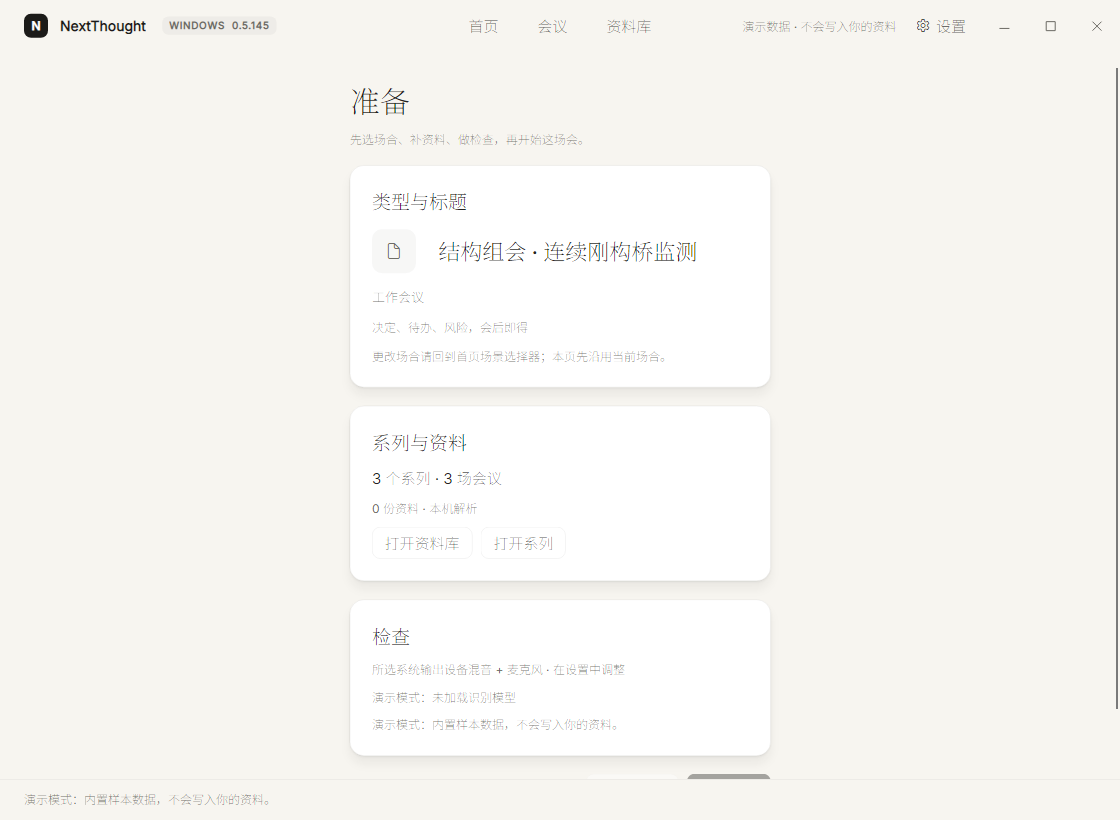
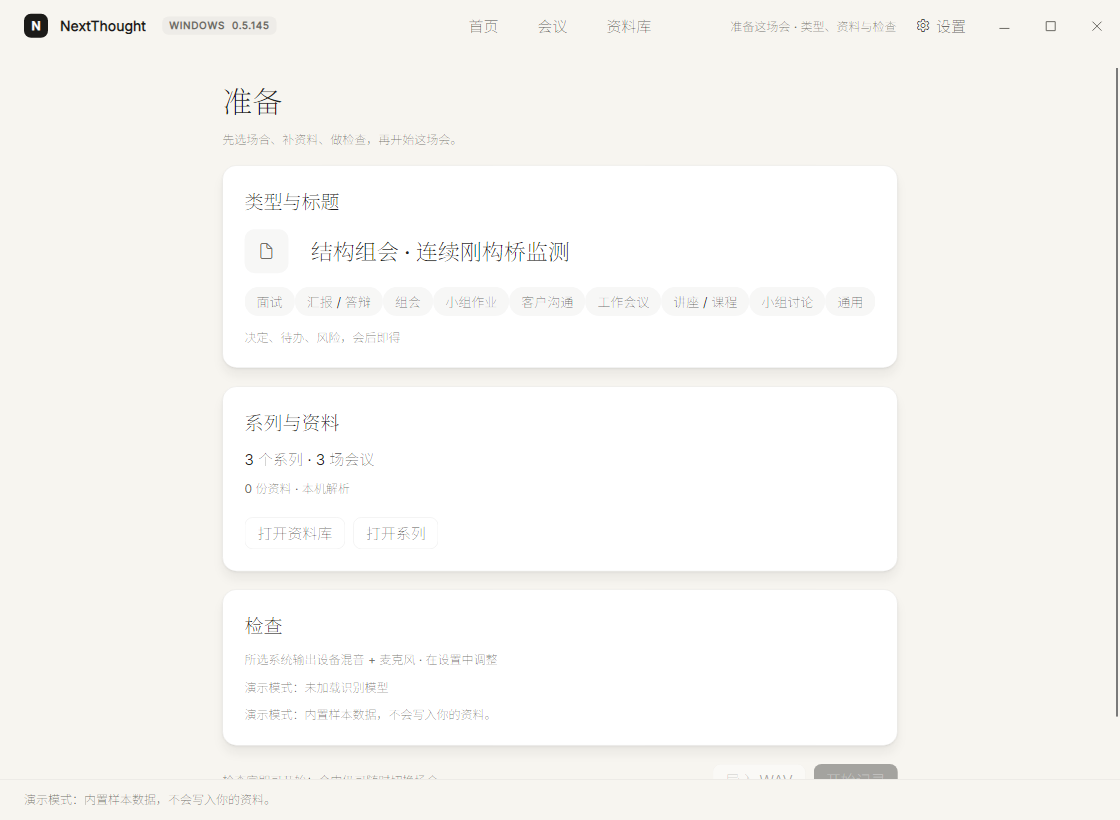
E2: prepare type picker and materials list
- scene chips set SelectedMode from Prepare
- materials card lists library names when present
- full series carry, briefing, checks remain

diff --git a/Windows/src/NextThought.Desktop/Views/PrepareView.axaml.cs b/Windows/src/NextThought.Desktop/Views/PrepareView.axaml.cs
@@ -1,8 +1,15 @@
 using Avalonia.Controls;
+using Avalonia.Interactivity;
 
 namespace NextThought.Desktop.Views;
 
 public partial class PrepareView : UserControl
 {
     public PrepareView() => InitializeComponent();
+
+    private void PrepareScene_Click(object? sender, RoutedEventArgs e)
+    {
+        if (sender is Button { Tag: SceneChoice scene } && DataContext is AppState state)
+            state.SetSceneCommand.Execute(scene.Mode);
+    }
 }
